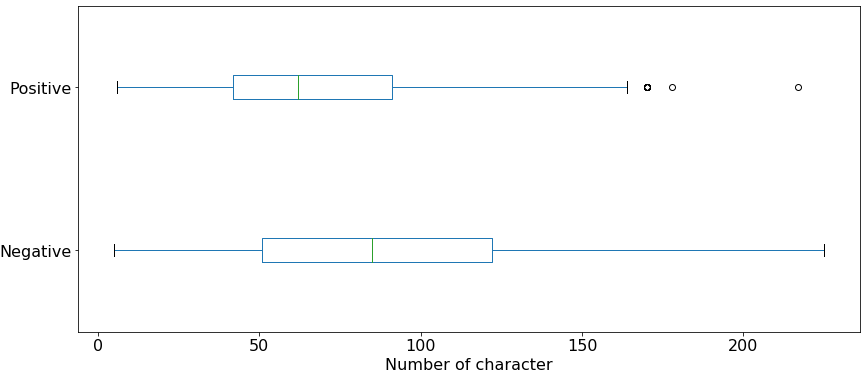
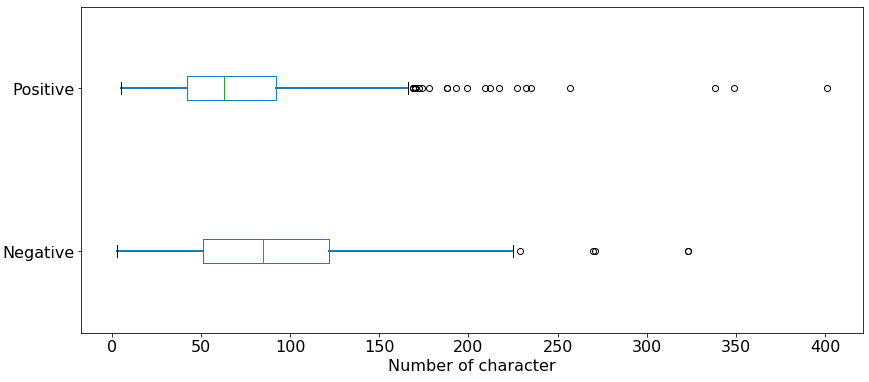
udapte_full

diff --git a/preprocessing/processing_figures.py b/preprocessing/processing_figures.py
@@ -12,7 +12,7 @@ import pandas as pd
 
 
 
-with open("../data/train_pos.txt", mode='rt', encoding='utf-8') as rf: 
+with open("../data/train_pos_full.txt", mode='rt', encoding='utf-8') as rf: 
 
     indice=[]
     size_pos=[]
@@ -25,7 +25,7 @@ with open("../data/train_pos.txt", mode='rt', encoding='utf-8') as rf:
 
 
 
-with open("../data/train_neg.txt", mode='rt', encoding='utf-8') as rf: 
+with open("../data/train_neg_full.txt", mode='rt', encoding='utf-8') as rf: 
     
     size_neg=[]
     char_neg=[]
@@ -57,7 +57,7 @@ fig.savefig('../fig/Tweet_boxplot_char')
 char_tweet_T = [char_neg, char_pos]
 df = pd.DataFrame(char_tweet_T, index=["Negative","Positive"])
 plt.subplots(figsize=(14, 6))
-boxplot = df.T.boxplot(vert=False, fontsize=16, grid=False)
+boxplot = df.T.boxplot(vert=False, fontsize=16, grid=False, whiskerprops = dict(linestyle='-',linewidth=2.0, color='blue'))
 boxplot.set_xlabel('Number of character',fontsize=16)
 plt.show()
 plt.savefig('../fig/Tweet_boxplot_char_horizontal')
